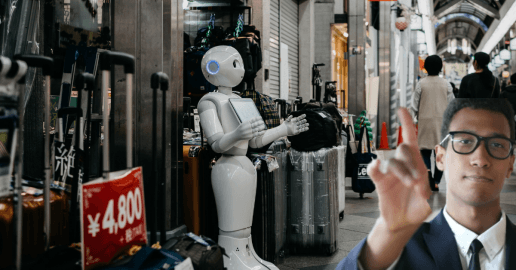
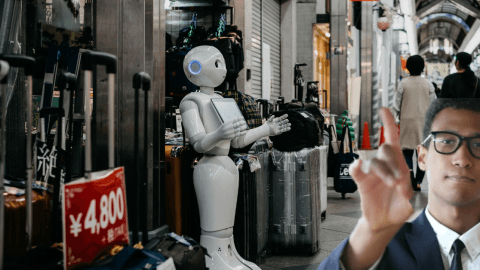
Style images in latest news section

diff --git a/style.css b/style.css
@@ -200,7 +200,10 @@ a {
 }
 
 .col-3 a img {
-  max-width: 100%;
+  width: auto;
+  max-width: 270px;
+  height: auto;
+  max-height: 160px;
 }
 
 .col-3 h4,
